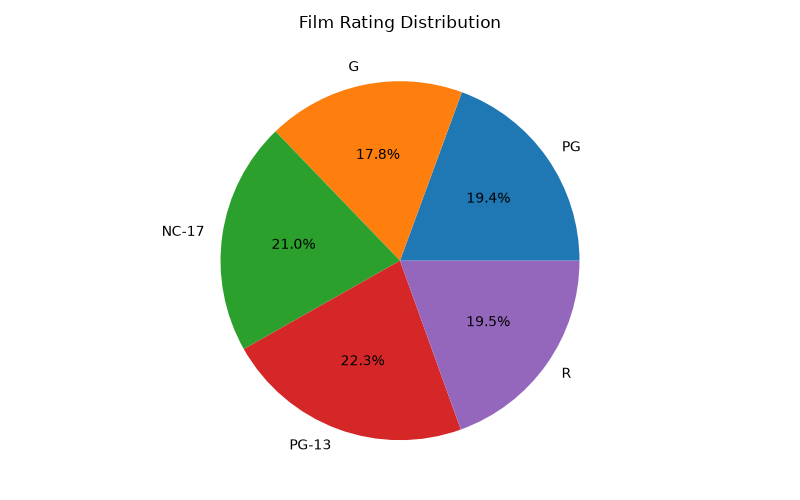
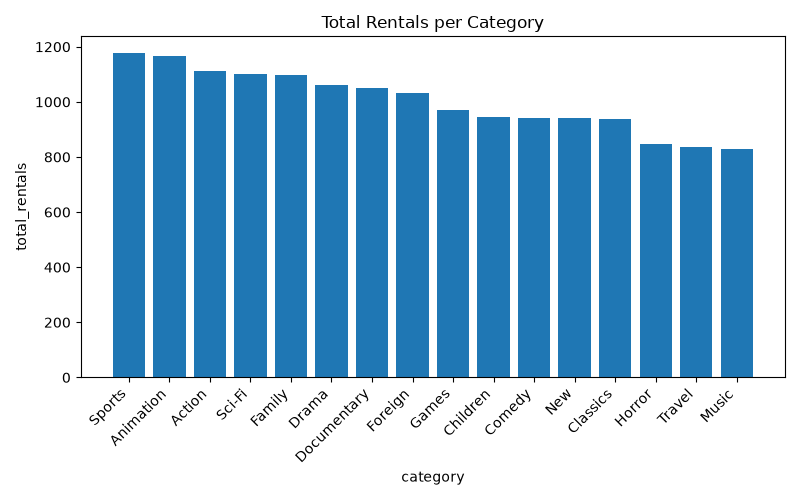
Phase 3 complete: LangGraph orchestration replacing straight-line pipeline

diff --git a/app/main.py b/app/main.py
@@ -1,50 +1,41 @@
 from app.sql.schema import get_schema
-from app.sql.generator import generate_plan, explain_error
-from app.sql.executor import execute_sql
-from app.pandas_tools.charts import save_chart
+from app.agents.graph import build_graph
 
-def ask(question: str, schema: str, history: list):
-    plan = generate_plan(question, schema, history)
-    print("DEBUG PLAN:", plan)
+def ask(question: str, schema: str, history: list, graph):
+    initial_state = {
+        "question": question,
+        "schema": schema,
+        "history": history,
+        "plan": None,
+        "result": None,
+        "chart_path": None,
+        "message": None
+    }
 
-    sql = plan["sql"]
-    print("Generated SQL:\n", sql)
+    final_state = graph.invoke(initial_state)
 
-    if not sql:
-        print("\nI couldn't find relevant data in the database to answer that question. Could you rephrase, or ask about something the database actually tracks?")
-    else:
-        result = execute_sql(sql)
-        if result["success"]:
-            df = result["data"]
-            print("\nResults:")
-            print(df)
+    plan = final_state["plan"]
+    result = final_state["result"]
 
-            if plan["needs_chart"]:
-                try:
-                    chart_path = save_chart(
-                        df,
-                        x_col=plan["x_col"],
-                        y_col=plan["y_col"],
-                        chart_type=plan["chart_type"],
-                        title=plan.get("chart_title") or question,
-                        filename="latest_chart.png"
-                    )
-                    print("\nChart saved to:", chart_path)
-                except Exception as chart_err:
-                    friendly = explain_error(question, str(chart_err))
-                    print("\n", friendly)
-        else:
-            friendly = explain_error(question, result["error"])
-            print("\n", friendly)
+    print("Generated SQL:\n", plan["sql"])
+
+    if final_state["message"]:
+        print("\n", final_state["message"])
+    elif result and result["success"]:
+        print("\nResults:")
+        print(result["data"])
+        if final_state["chart_path"]:
+            print("\nChart saved to:", final_state["chart_path"])
 
     history.append({
         "question": question,
-        "sql": sql
+        "sql": plan["sql"]
     })
 
 if __name__ == "__main__":
     schema = get_schema()
     history = []
+    graph = build_graph()
     print("Ask questions about the database. Type 'exit' to quit.\n")
 
     while True:
@@ -52,4 +43,4 @@ if __name__ == "__main__":
         if question.lower() in ("exit", "quit"):
             print("Goodbye.")
             break
-        ask(question, schema, history)
+        ask(question, schema, history, graph)

diff --git a/app/agents/graph.py b/app/agents/graph.py
@@ -1,0 +1,76 @@
+from typing import TypedDict, Optional
+import pandas as pd
+from app.sql.generator import generate_plan, explain_error
+from app.sql.executor import execute_sql
+from app.pandas_tools.charts import save_chart
+
+
+class AgentState(TypedDict):
+    question: str
+    schema: str
+    history: list
+    plan: Optional[dict]
+    result: Optional[dict]
+    chart_path: Optional[str]
+    message: Optional[str]
+
+
+def plan_node(state: AgentState) -> AgentState:
+    plan = generate_plan(state["question"], state["schema"], state["history"])
+    state["plan"] = plan
+    return state
+
+
+def sql_node(state: AgentState) -> AgentState:
+    sql = state["plan"]["sql"]
+    if not sql:
+        state["result"] = None
+        state["message"] = "I couldn't find relevant data in the database to answer that question."
+        return state
+
+    result = execute_sql(sql)
+    state["result"] = result
+
+    if not result["success"]:
+        state["message"] = explain_error(state["question"], result["error"])
+
+    return state
+
+
+def chart_node(state: AgentState) -> AgentState:
+    plan = state["plan"]
+    result = state["result"]
+
+    if result and result["success"] and plan["needs_chart"]:
+        try:
+            path = save_chart(
+                result["data"],
+                x_col=plan["x_col"],
+                y_col=plan["y_col"],
+                chart_type=plan["chart_type"],
+                title=plan.get("chart_title") or state["question"],
+                filename="latest_chart.png"
+            )
+            state["chart_path"] = path
+        except Exception as e:
+            state["message"] = explain_error(state["question"], str(e))
+
+    return state
+
+
+
+from langgraph.graph import StateGraph, END
+
+def build_graph():
+    graph = StateGraph(AgentState)
+
+    graph.add_node("plan", plan_node)
+    graph.add_node("sql", sql_node)
+    graph.add_node("chart", chart_node)
+
+    graph.set_entry_point("plan")
+    graph.add_edge("plan", "sql")
+    graph.add_edge("sql", "chart")
+    graph.add_edge("chart", END)
+
+    return graph.compile()

diff --git a/evals/test_graph.py b/evals/test_graph.py
@@ -1,0 +1,18 @@
+from app.sql.schema import get_schema
+from app.agents.graph import build_graph
+
+schema = get_schema()
+graph = build_graph()
+
+initial_state = {
+    "question": "Show total rentals per category as a bar chart.",
+    "schema": schema,
+    "history": [],
+    "plan": None,
+    "result": None,
+    "chart_path": None,
+    "message": None
+}
+
+final_state = graph.invoke(initial_state)
+print(final_state)
